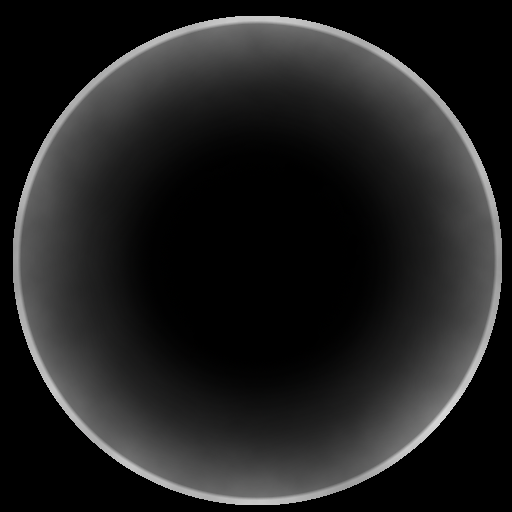
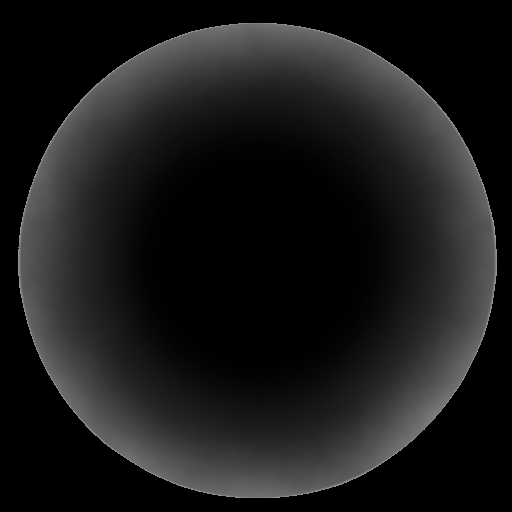
some work on eternal horr

diff --git a/Content/NPCs/Bosses/EternalHorror/EternalHorror.Draw.cs b/Content/NPCs/Bosses/EternalHorror/EternalHorror.Draw.cs
@@ -9,8 +9,6 @@ using Terraria.Graphics.Effects;
 using Terraria.Graphics.Renderers;
 using Terraria.ID;
 using Terraria.ModLoader;
-using static Consolaria.Helper;
-using static Terraria.GameContent.Animations.Actions.Sprites;
 
 namespace Consolaria.Content.NPCs.Bosses.EternalHorror;
 
@@ -28,7 +26,9 @@ sealed partial class EternalHorror : ModNPC {
                                     _backgroundTexture = null,
                                     _secondPhaseEyeTexture = null,
                                     _secondPhaseEyeTexture_Glow = null,
-                                    _pulseTexture = null;
+                                    _pulseTexture = null,
+                                    _pulseTexture2 = null,
+                                    _pulseTexture3 = null;
 
     public static Asset<Texture2D> RayTexture { get; private set; }
 
@@ -182,6 +182,8 @@ sealed partial class EternalHorror : ModNPC {
         _secondPhaseEyeTexture_Glow = Helper.RequestTexture(Texture + "_Eye_Glow");
 
         _pulseTexture = Helper.RequestTexture(Texture + "_ClonePulse");
+        _pulseTexture2 = Helper.RequestTexture(Texture + "_ClonePulse2");
+        _pulseTexture3 = Helper.RequestTexture(Texture + "_ClonePulse3");
     }
 
     private partial void Load_ApplyShaderEffects() {
@@ -419,6 +421,55 @@ sealed partial class EternalHorror : ModNPC {
                     continue;
                 }
 
+                float explosionProgress = 1f - Utils.GetLerpValue(0f, CloneInfo.EXPLOSIONTIME, cloneInfo.ExplosionTime, true);
+                if (explosionProgress >= 1f) {
+                    explosionProgress = 0f;
+                }
+
+                if (IsInSecondPhase) {
+                    ShaderLoader.WavyCircleShader.Time = _seed + Main.GlobalTimeWrappedHourly * 5;
+                    ShaderLoader.WavyCircleShader.WaveCount1 = 6f;
+                    ShaderLoader.WavyCircleShader.WaveCount2 = 12f;
+                    ShaderLoader.WavyCircleShader.WaveSize1 = 0.04f;
+                    ShaderLoader.WavyCircleShader.WaveSize2 = 0.04f;
+                    ShaderLoader.WavyCircleShader.WaveRadius = 1f - explosionProgress * 0.5f;
+                    ShaderLoader.ApplyEffect(ShaderLoader.WavyCircleShader.Effect, spriteBatch, () => {
+                        float _knockProgress2 = 120f * explosionProgress;
+
+                        var circleTexture = _pulseTexture3.Value;
+                        var circlePosition = cloneInfo.VisualPosition - screenPos;
+                        var circleClip = Utils.Frame(circleTexture, 1, 1, frameY: 0);
+                        var circleOrigin = circleClip.Centered();
+                        var circleColor = Color.Lerp(MainPurpleColor_Dynamic, MainPurpleColor, explosionProgress);
+                        float circleScale = Utils.GetLerpValue(74f, 120f, _knockProgress2, true);
+
+                        circleColor.A = 0;
+
+                        circleColor *= 1f - circleScale;
+
+                        float progress2 = Ease.SineOut(explosionProgress);
+                        circleColor *= progress2;
+
+                        Vector2 baseScale = Vector2.One;
+                        baseScale *= 2f * 1.5f; 
+                        //baseScale.Y *= 0.875f;
+
+                        Vector2 scaleFinal = baseScale * Ease.CircOut(circleScale);
+
+                        var circleDrawInfo = new Helper.DrawInfo() {
+                            Clip = circleClip,
+                            Origin = circleOrigin,
+                            Color = circleColor,
+                            //Rotation = cloneInfo.Rotation
+                        };
+                        for (int num185 = 0; num185 < 4; num185++) {
+                            spriteBatch.Draw(circleTexture, circlePosition + Vector2.UnitX.RotatedBy((float)num185 * ((float)Math.PI / 4f) - Math.PI) * 1f,
+                                circleDrawInfo.WithColorModifier(MathHelper.Lerp(0.125f, 0.25f, 0f) * 0.75f).WithScaleOverride(scaleFinal),
+                                false);
+                        }
+                    });
+                }
+
                 float rotation = cloneInfo.Rotation;
 
                 Player target = NPC.GetTargetPlayer();
@@ -478,8 +529,8 @@ sealed partial class EternalHorror : ModNPC {
                         Draw_Inner(NPC, cloneDrawContext with {
                             Position = position,
                             DrawColor = color,
-                            Rotation = rotation
-                        });
+                            Rotation = rotation,
+                        }, scale: NPC.scale + Ease.CubeIn(explosionProgress) * 0.25f);
                     });
                 }, sinWaveOffset: WaveOffset,
                    progress: Utils.Remap(timeLeftProgress, 0f, 1f, MathHelper.Lerp(0.375f, 0.5f, 0.5f), 1f, true) * 0.25f,
@@ -519,44 +570,6 @@ sealed partial class EternalHorror : ModNPC {
                                 starMaxRotation * starRotation * starRotation + cloneStarInfo.Rotation,
                                 new Vector2(10f, 6f) * starScale * starScale, new Vector2(3f, 3f));
                             //Utils.DrawLine(spriteBatch, rCurrentNPC.Center + starPosition + starOffset, rCurrentNPC.Center + starPosition * 30f + starOffset, Microsoft.Xna.Framework.Color.Cyan * starRotation, Microsoft.Xna.Framework.Color.Transparent, 16f * starScale);
-                        }
-                    });
-                }
-
-                if (IsInSecondPhase)
-                {
-                    ShaderLoader.WavyCircleShader.Time = Main.GlobalTimeWrappedHourly * 10;
-                    ShaderLoader.WavyCircleShader.WaveCount1 = 6f;
-                    ShaderLoader.WavyCircleShader.WaveCount2 = 12f;
-                    ShaderLoader.WavyCircleShader.WaveSize1 = 0.04f;
-                    ShaderLoader.WavyCircleShader.WaveSize2 = 0.04f;
-                    ShaderLoader.WavyCircleShader.WaveRadius = 0.5f;
-                    ShaderLoader.ApplyEffect(ShaderLoader.WavyCircleShader.Effect, spriteBatch, () => {
-                        float _knockProgress2 = 120f;
-
-                        var circleTexture = _pulseTexture.Value;
-                        var circlePosition = cloneInfo.VisualPosition - screenPos;
-                        var circleClip = Utils.Frame(circleTexture, 1, 1, frameY: 0);
-                        var circleOrigin = circleClip.Centered();
-                        var circleColor = MainPurpleColor;
-                        float circleScale = Utils.GetLerpValue(74f, 120f, _knockProgress2, true);
-                    
-                        //circleColor *= 1f - circleScale;
-
-                        circleColor.A = 0;
-
-                        float scaleFinal = 1.5f * Ease.CircOut(circleScale);
-                        Main.NewText(scaleFinal);
-
-                        var circleDrawInfo = new DrawInfo() {
-                            Clip = circleClip,
-                            Origin = circleOrigin,
-                            Color = circleColor
-                        };
-                        for (int num185 = 0; num185 < 4; num185++) {
-                            spriteBatch.Draw(circleTexture, circlePosition + Vector2.UnitX.RotatedBy((float)num185 * ((float)Math.PI / 4f) - Math.PI) * 1f,
-                                circleDrawInfo.WithColorModifier(0.75f).WithScale(scaleFinal),
-                                false);
                         }
                     });
                 }

diff --git a/Content/NPCs/Bosses/EternalHorror/EternalHorror.AI_States.cs b/Content/NPCs/Bosses/EternalHorror/EternalHorror.AI_States.cs
@@ -195,6 +195,9 @@ sealed partial class EternalHorror : ModNPC {
                 bool shadowSpawnProgress = ++boss.AICounter >= SHADOWSPAWNTIME;
 
                 float dustProgress = boss.AICounter / SHADOWSPAWNTIME;
+
+                ShakeStrength = Helper.Approach(ShakeStrength, dustProgress, 0.125f);
+
                 dustProgress = Helper.YoYo(dustProgress);
                 boss.SpawnPreparationDust_Shadow(dustProgress);
 
@@ -710,7 +713,8 @@ sealed partial class EternalHorror : ModNPC {
 
             boss.OnIterateActiveCloneData((ref cloneInfo) => {
                 //cloneInfo.ShouldUpdateVisualPosition = true;
-                cloneInfo.ShouldFade = true;
+                //cloneInfo.ShouldFade = true;
+                cloneInfo.ForceFade();
             });
         }
 
@@ -1039,8 +1043,11 @@ sealed partial class EternalHorror : ModNPC {
                             dashDirection = clonePosition.DirectionTo(targetCenter);
                             //cloneInfo.Velocity = dashDirection * dashStrength;
 
-                            cloneInfo.ShouldFade = true;
-                            cloneInfo.ShouldUpdateVisualPosition = true;
+                            //if (!cloneInfo.ShouldUpdateVisualPosition) {
+                            //    cloneInfo.ShouldFade = true;
+                            //    cloneInfo.ShouldUpdateVisualPosition = true;
+                            //    cloneInfo.ExplosionTime = CloneInfo.EXPLOSIONTIME;
+                            //}
                         });
                     }
 
@@ -1122,7 +1129,19 @@ sealed partial class EternalHorror : ModNPC {
             extraSlowDownAfterDash();
         }
 
-        void IAIState.OnStart(NPC npc, EternalHorror boss) { }
+        void IAIState.OnStart(NPC npc, EternalHorror boss) {
+            boss.OnIterateActiveCloneData((ref cloneInfo) => {
+                Vector2 clonePosition = cloneInfo.VisualPosition;
+                //dashDirection = clonePosition.DirectionTo(targetCenter);
+                //cloneInfo.Velocity = dashDirection * dashStrength;
+
+                if (!cloneInfo.ShouldUpdateVisualPosition) {
+                    cloneInfo.ShouldFade = true;
+                    cloneInfo.ShouldUpdateVisualPosition = true;
+                    cloneInfo.ExplosionTime = CloneInfo.EXPLOSIONTIME;
+                }
+            });
+        }
         void IAIState.OnEnd(NPC npc, EternalHorror boss) { }
     }
 
@@ -1220,6 +1239,9 @@ sealed partial class EternalHorror : ModNPC {
                 bool shadowSpawnProgress = ++boss.AICounter >= SHADOWSPAWNTIME;
 
                 float dustProgress = boss.AICounter / SHADOWSPAWNTIME;
+
+                ShakeStrength = Helper.Approach(ShakeStrength, dustProgress, 0.125f);
+
                 dustProgress = Helper.YoYo(dustProgress);
                 boss.SpawnPreparationDust_Shadow(dustProgress);
 

diff --git a/Content/NPCs/Bosses/EternalHorror/EternalHorror.AI.cs b/Content/NPCs/Bosses/EternalHorror/EternalHorror.AI.cs
@@ -49,7 +49,10 @@ sealed partial class EternalHorror : ModNPC {
                                                                              bool ShouldFade = false,
                                                                              CloneStarInfo[] CloneStarData = null,
                                                                              float AllStarOpacityFactor = 0f,
-                                                                             float LerpVelocityValue = 1f) {
+                                                                             float LerpVelocityValue = 1f,
+                                                                             int ExplosionTime = -1) {
+        public static ushort EXPLOSIONTIME => Helper.SecondsToFrames(1.5f);
+
         public readonly float TimeLeftProgress => Helper.Clamp01((float)TimeLeft / MaxTimeLeft);
         public readonly bool Active => TimeLeftProgress > 0f;
         public readonly float Opacity {
@@ -61,6 +64,12 @@ sealed partial class EternalHorror : ModNPC {
                     opacity *= Utils.GetLerpValue(0f, 0.25f, timeLeftProgress, true);
                 }
                 return opacity;
+            }
+        }
+
+        public void ForceFade() {
+            if (TimeLeft > CLONEACTIVETIME * 0.25f) {
+                TimeLeft = (ushort)(CLONEACTIVETIME * 0.25f);
             }
         }
 
@@ -353,7 +362,17 @@ sealed partial class EternalHorror : ModNPC {
 
             cloneInfo.UpdateStars();
 
-            if (cloneInfo.Opacity < 1f) {
+            if (cloneInfo.ExplosionTime > 0) {
+                cloneInfo.ExplosionTime--;
+                if (cloneInfo.ExplosionTime == 0) {
+                    cloneInfo.TimeLeft = 0;
+
+                    Vector2 position = cloneInfo.VisualPosition;
+                    SpawnCloneExplosion(position);
+                }
+            }
+
+            if (IsInSecondPhase && cloneInfo.Opacity < 1f) {
                 Vector2 targetCenter = target.Center;
 
                 cloneInfo.Position = GetCloneSpawnPosition();

diff --git a/Content/NPCs/Bosses/EternalHorror/EternalHorrorSummonHandler.cs b/Content/NPCs/Bosses/EternalHorror/EternalHorrorSummonHandler.cs
@@ -736,7 +736,13 @@ sealed class EternalHorrorSummonHandler : ModSystem {
 
     private static void HandleBlinking() {
         if (_shouldBlink) {
-            EternalHorror.ShakeStrength = Helper.Approach(EternalHorror.ShakeStrength, 1f, 0.125f);
+            float outLerpValueFactor = 0.5f;
+
+            float shakeLerpValue = 0.125f;
+            if (!ShouldBlinkOut) {
+                shakeLerpValue *= outLerpValueFactor;
+            }
+            EternalHorror.ShakeStrength = Helper.Approach(EternalHorror.ShakeStrength, 1f, shakeLerpValue);
 
             if (!EternalHorrorSummonEnded) {
                 for (int i = 0; i < _eyeData.Length; i++) {
@@ -782,6 +788,9 @@ sealed class EternalHorrorSummonHandler : ModSystem {
             }
             else {
                 float to = 0f - progressOffset * 1f;
+                if (!ShouldBlinkOut) {
+                    lerpValue *= outLerpValueFactor;
+                }
                 BlinkProgress = Helper.Approach(BlinkProgress, to, lerpValue);
                 if (BlinkProgress <= to) {
                     _in = true;
